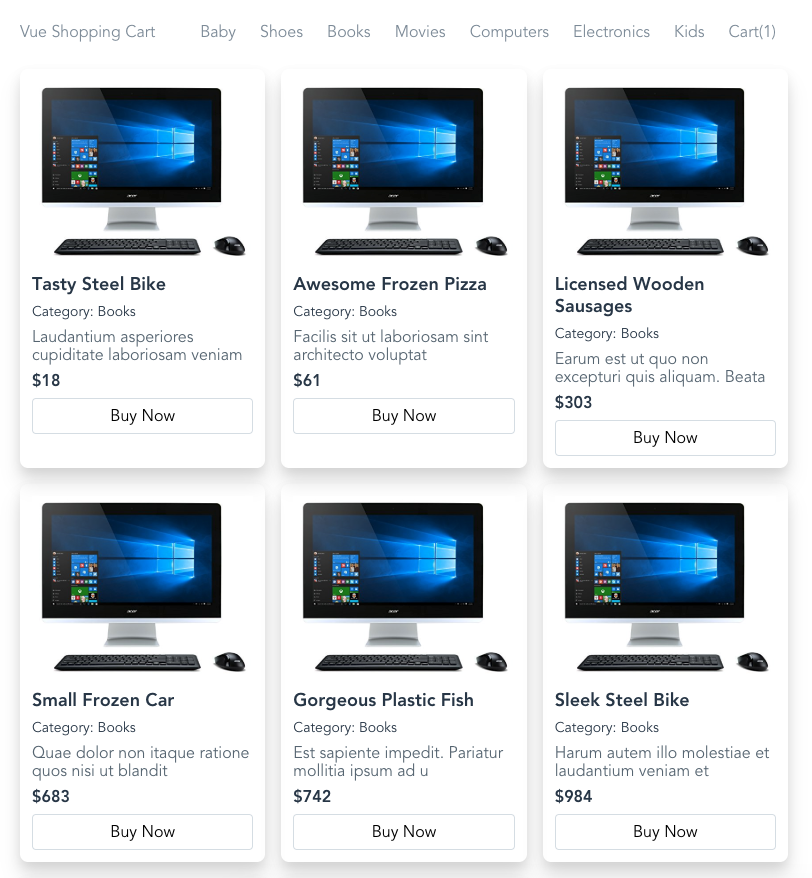
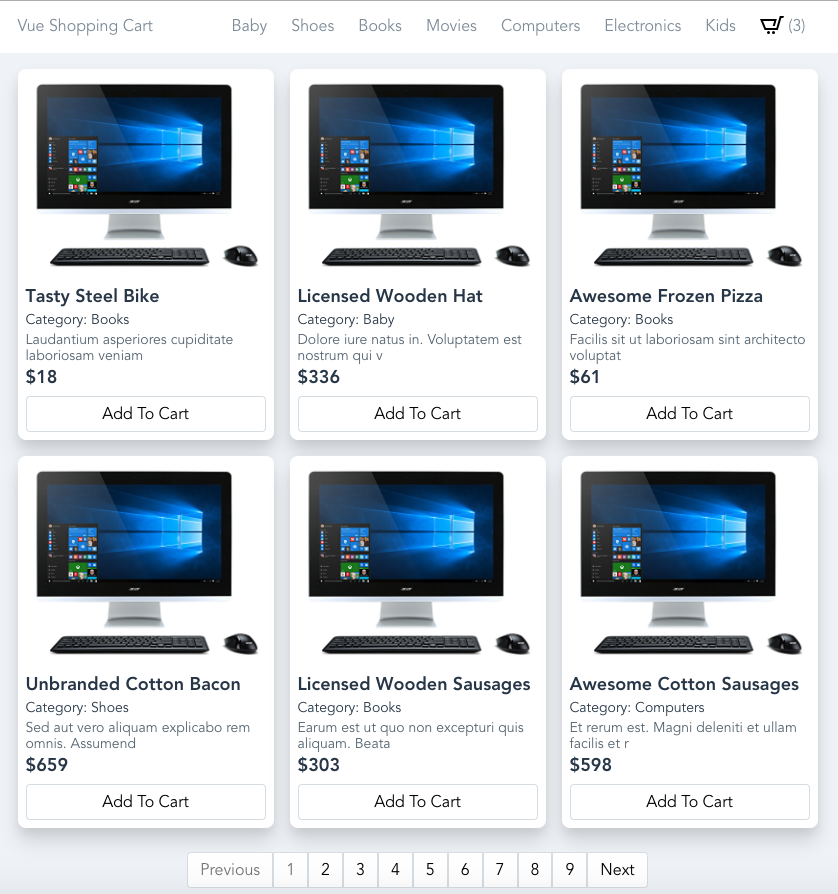
Update pagination

diff --git a/client/src/views/Home.vue b/client/src/views/Home.vue
@@ -5,19 +5,18 @@
         <Product :product="product"/>
       </div>
     </div>
-    <!-- <p class="text-center mt-6 mb-0">{{ currentPage }} / {{ pages }}</p> -->
-    <ul class="flex list-reset align-center justify-center mb-4 mt-4">
+    <ul class="flex list-reset align-center justify-center mb-4 mt-6" v-if="pages > 1">
       <li>
         <button 
-          class="block bg-white p-2 mx-2 border border-grey-light rounded"
-          @click="checkPage(currentPage - 1)" 
-          v-if="currentPage !== 1">
+          class="block bg-white p-2 px-3 border border-grey-light rounded rounded-r-none hover:outline-none"
+          @click="checkPage(currentPage)" 
+          :disabled="currentPage === 1">
           Previous
         </button>
       </li>
       <li v-for="page in pages" :key="page">
         <button 
-          class="block bg-white p-2 mx-2 border border-grey-light rounded"
+          class="block bg-white p-2 px-3 border border-grey-light hover:outline-none"
           :disabled="currentPage === page"
           @click="checkPage(page)" >
           {{ page }}
@@ -25,9 +24,9 @@
       </li>
       <li>
         <button 
-          class="block bg-white p-2 mx-2 border border-grey-light rounded"
+          class="block bg-white p-2 px-3 border border-grey-light rounded rounded-l-none hover:outline-none"
           @click="checkPage(currentPage + 1)" 
-          v-if="currentPage !== pages">
+          :disabled="currentPage === pages">
           Next
         </button>
       </li>
@@ -36,11 +35,11 @@
 </template>
 
 <script>
-import Api from '@/config/api';
 import Product from '@/components/Product.vue';
+import ProductService from '@/services/product';
 
 export default {
-  components: {Product},
+  components: { Product },
   data() {
     return {
       products: [],
@@ -49,23 +48,19 @@ export default {
     };
   },
   created() {
-    Api()
-      .get('/products')
-      .then(res => {
+    ProductService.getProducts().then(res => {
+      this.products = res.data.products;
+      this.currentPage = res.data.currentPage;
+      this.pages = res.data.pages;
+    });
+  },
+  methods: {
+    checkPage(page) {
+      ProductService.getProductsByPage(page).then(res => {
         this.products = res.data.products;
         this.currentPage = res.data.currentPage;
         this.pages = res.data.pages;
       });
-  },
-  methods: {
-    checkPage(page) {
-      Api()
-        .get(`/products?page=${page}`)
-        .then(res => {
-          this.products = res.data.products;
-          this.currentPage = res.data.currentPage;
-          this.pages = res.data.pages;
-        });
     }
   }
 };

diff --git a/client/src/views/ProductCategory.vue b/client/src/views/ProductCategory.vue
@@ -5,19 +5,47 @@
         <Product :product="product"/>
       </div>
     </div>
+    <ul class="flex list-reset align-center justify-center mb-4 mt-6" v-if="pages > 1">
+      <li>
+        <button 
+          class="block bg-white p-2 px-3 border border-grey-light rounded rounded-r-none"
+          @click="checkPage(currentPage)" 
+          :disabled="currentPage === 1">
+          Previous
+        </button>
+      </li>
+      <li v-for="page in pages" :key="page">
+        <button 
+          class="block bg-white p-2 px-3 border border-grey-light"
+          :disabled="currentPage === page"
+          @click="checkPage(page)" >
+          {{ page }}
+        </button>
+      </li>
+      <li>
+        <button 
+          class="block bg-white p-2 px-3 border border-grey-light rounded rounded-l-none"
+          @click="checkPage(currentPage + 1)" 
+          :disabled="currentPage === pages">
+          Next
+        </button>
+      </li>
+    </ul>
   </div>
 </template>
 
 <script>
-import Api from '@/config/api';
 import Product from '@/components/Product.vue';
+import CategoryService from '@/services/category';
 
 export default {
   props: ['category'],
   components: { Product },
   data() {
     return {
-      products: []
+      products: [],
+      currentPage: 0,
+      pages: 0
     };
   },
   created() {
@@ -32,11 +60,18 @@ export default {
   },
   methods: {
     fetch() {
-      Api()
-        .get(`/categories/${this.category}`)
-        .then(res => {
-          this.products = res.data;
-        });
+      CategoryService.getCategories(this.category).then(res => {
+        this.products = res.data.products;
+        this.currentPage = res.data.currentPage;
+        this.pages = res.data.pages;
+      });
+    },
+    checkPage(page) {
+      CategoryService.getCategoriesByPage(this.category, page).then(res => {
+        this.products = res.data.products;
+        this.currentPage = res.data.currentPage;
+        this.pages = res.data.pages;
+      });
     }
   }
 };

diff --git a/client/src/components/NavBar.vue b/client/src/components/NavBar.vue
@@ -6,8 +6,8 @@
           <router-link
             tag="a" 
             :to="{ name: 'home' }" 
-            class="block no-underline text-grey-dark mt-3">
-            Vue Shopping Cart
+            class="block no-underline text-grey-dark mt-4">
+            Cartyyy
           </router-link>
         </div>
         <div class="flex-grow">
@@ -17,7 +17,8 @@
               tag="a" 
               :to = "{name: 'checkout'}" 
               class="inline-block no-underline p-3 text-grey-dark text-capitalize">
-              Cart(<span class="badge badge-light">{{ cart.length }}</span>)
+              <span class="align-middle inline-block"><svg xmlns="http://www.w3.org/2000/svg" width="24" height="24"><path d="M10 19.5a1.5 1.5 0 1 1-3 0 1.5 1.5 0 0 1 3 0zm3.5-1.5a1.5 1.5 0 1 0 0 3 1.5 1.5 0 0 0 0-3zm6.305-15l-3.432 12H5.945L3.008 8H14.17l-1.412 5h2.078l1.977-7H0l4.615 11h13.239l3.474-12h1.929L24 3h-4.195z"/></svg></span>
+              (<span class="badge badge-light">{{ cart.length }}</span>)
             </router-link>
           </div>
         </div>

diff --git a/server/api/category/category.controller.js b/server/api/category/category.controller.js
@@ -12,9 +12,19 @@ exports.findByAll = async (req, res, next) => {
 
 exports.findByCategory = async (req, res, next) => {
   try {
+    const page = parseInt(req.query.page, 10) || 1;
+    const pagesize = 6;
     const category = await Category.findOne({ title: req.params.category });
-    const products = await Product.find({ category: category.title });
-    res.status(200).json(products);
+    const products = await Product.paginate(
+      { category: category.title },
+      { page: page, limit: pagesize }
+    );
+
+    res.status(200).json({
+      products: products.docs,
+      currentPage: page,
+      pages: products.pages
+    });
   } catch (error) {
     res.status(500).json(error);
   }

diff --git a/server/api/product/product.controller.js b/server/api/product/product.controller.js
@@ -3,17 +3,17 @@ const Product = require('./product.model');
 
 exports.findAll = async (req, res, next) => {
   try {
-    let page = parseInt(req.query.page, 10) || 1;
-    let limit = 6;
-
-    const products = await Product.paginate({}, { page: page, limit: limit });
-
-    let pages = Math.ceil(products.total / limit);
+    const page = parseInt(req.query.page, 10) || 1;
+    const pagesize = 6;
+    const products = await Product.paginate(
+      {},
+      { page: page, limit: pagesize }
+    );
 
     res.status(200).json({
       products: products.docs,
       currentPage: page,
-      pages
+      pages: products.pages
     });
   } catch (error) {
     res.status(500).json(error);

diff --git a/client/src/views/CheckOut.vue b/client/src/views/CheckOut.vue
@@ -1,12 +1,12 @@
 <template>
   <div class="container max-w-lg mx-auto mb-4">
-    <div class="bg-white p-2" v-if="cart.length == 0">
+    <div class="bg-white p-6" v-if="cart.length == 0">
       <p>Your cart is empty</p>
     </div>
     <div class="bg-white p-2" v-else>
       <table class="table-fixed w-full border border-grey-light text-center">
         <thead>
-          <tr class="bg-grey uppercase text-sm">
+          <tr class="bg-grey-light uppercase text-sm">
             <th class="px-2 py-3">Product</th>
             <th class="px-2 py-3">Price</th>
             <th class="px-2 py-3">Quantity</th>

diff --git a/client/src/services/category.js b/client/src/services/category.js
@@ -1,0 +1,11 @@
+import Api from './api';
+
+export default {
+  getCategories(category) {
+    return Api().get(`/categories/${category}`);
+  },
+
+  getCategoriesByPage(category, page) {
+    return Api().get(`/categories/${category}?page=${page}`);
+  }
+};

diff --git a/client/src/components/Product.vue b/client/src/components/Product.vue
@@ -10,7 +10,7 @@
     <button 
       class="block w-full border p-2 rounded mt-2 hover:bg-grey-light" 
       @click="addToCart(product)">
-      Buy Now
+      Add To Cart
     </button>
   </div>
 </template>

diff --git a/client/src/services/product.js b/client/src/services/product.js
@@ -1,0 +1,11 @@
+import Api from './api';
+
+export default {
+  getProducts() {
+    return Api().get('/products');
+  },
+
+  getProductsByPage(page) {
+    return Api().get(`/products?page=${page}`);
+  }
+};
